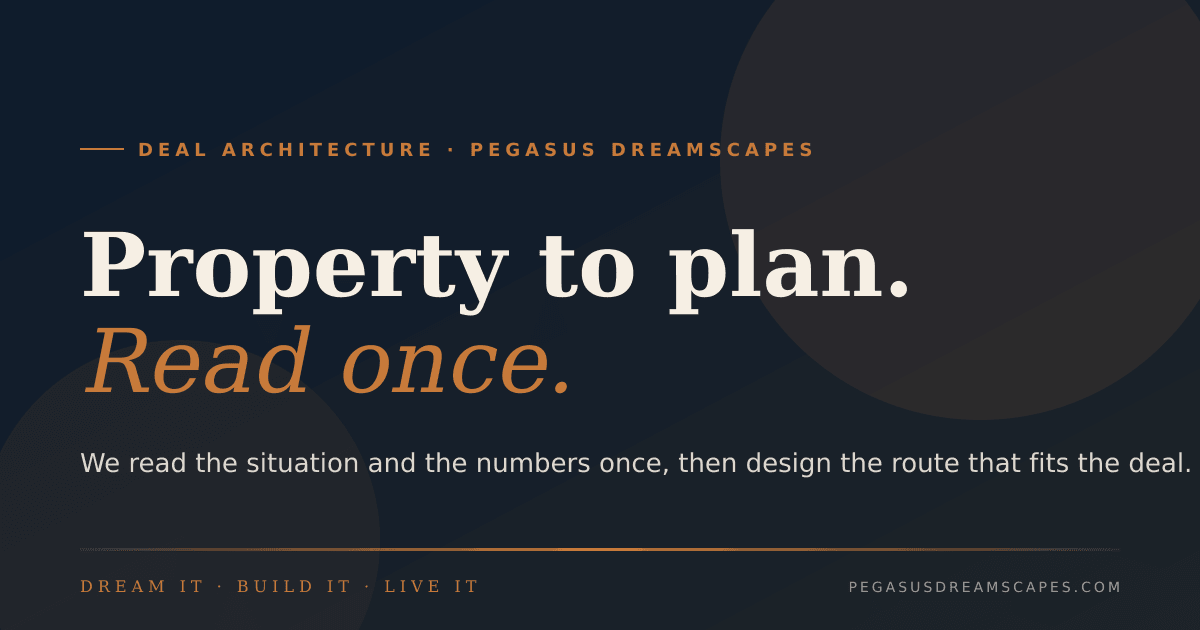
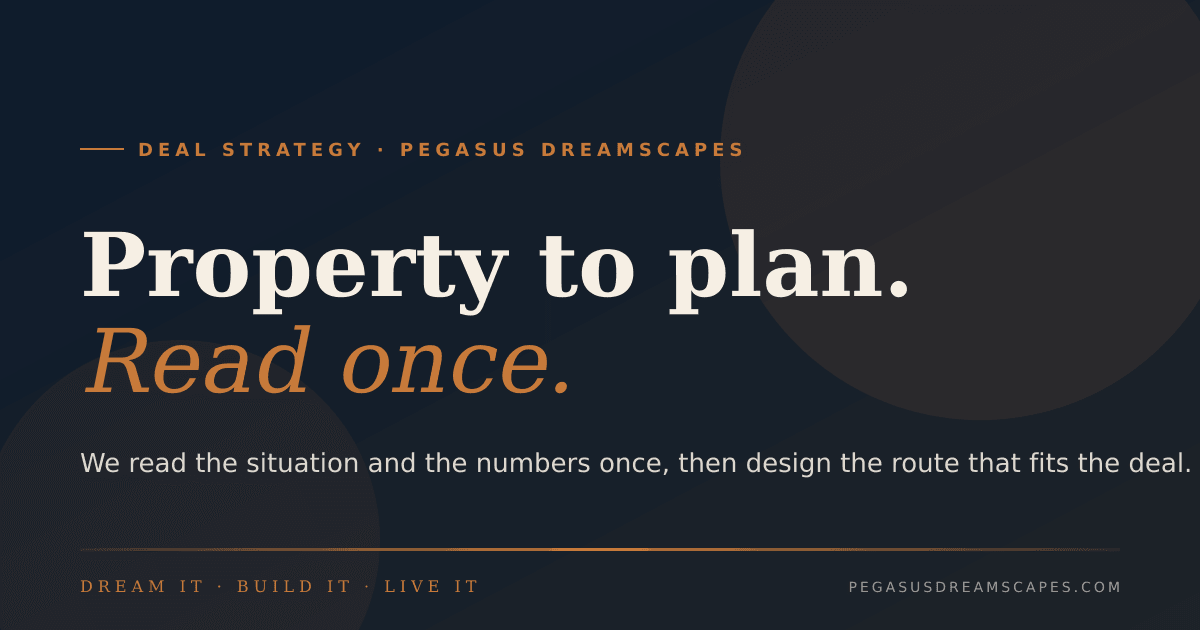
Task #232 — Brand language: Deal Strategy cleanup
Replace remaining public/crawlable "Deal Architecture" / "The Deal
Architect" wording with "Deal Strategy" / "Deal Strategy & Real Estate
Execution". Route slug /deal-architecture left unchanged (copy/metadata
only). Strategy Lab pillar and the departments model untouched.

Public copy + crawlable metadata edits:
- deal-architecture.tsx: useSEO title -> "Deal Strategy"; doctrine-line
  eyebrow -> "Deal Strategy & Real Estate Execution".
- home.tsx: WhatWeDo eyebrow -> "Deal Strategy"; JSON-LD slogan ->
  "Deal Strategy & Real Estate Execution".
- about.tsx: JSON-LD slogan + Positioning ShapeRow ->
  "Deal Strategy & Real Estate Execution".
- connect.tsx: BrandStrip subline -> "Deal Strategy & Real Estate
  Execution".
- project-nelson-dr.tsx: pipeline h2 -> "The Deal Strategy" (kept
  distinct from the existing "The Pegasus Read" h2 above it).
- scripts/generate-og.mjs: default/home/deal-architecture OG kickers
  retitled; regenerated PNGs in client/public/og + public/og.

Deviation from the original 5-location audit: grep found additional
public surfaces (home JSON-LD slogan, connect BrandStrip, the
deal-architecture eyebrow, and the OG card kickers) that the task's
"no other public copy/metadata" criterion required — all fixed.

Deliberately NOT changed (out of literal scope): founder metaphor quote
"the deal is the architecture of the situation" (home/about/
work-with-apollo); code comments and the two internal CTA test-case
[…]

Changed region(s): [[0.185, 0.2111, 0.6783, 0.2714]]

diff --git a/client/src/pages/about.tsx b/client/src/pages/about.tsx
@@ -38,7 +38,7 @@ const ABOUT_JSONLD = {
       alternateName: "Pegasus DreamScapes",
       url: "https://pegasusdreamscapes.com",
       logo: "https://pegasusdreamscapes.com/brand/pegasus-mark.svg",
-      slogan: "The Deal Architect",
+      slogan: "Deal Strategy & Real Estate Execution",
       email: "apollo@pegasusdreamscapes.com",
       telephone: "+1-925-744-8525",
       address: {
@@ -178,7 +178,7 @@ function AboutHero() {
                   The shape of the company
                 </p>
                 <dl className="divide-y divide-cream/15">
-                  <ShapeRow label="Positioning" value="The Deal Architect" />
+                  <ShapeRow label="Positioning" value="Deal Strategy & Real Estate Execution" />
                   <ShapeRow label="Founder" value={'Paolo "Apollo" Duran'} />
                   <ShapeRow label="Entity" value="Pegasus DreamScapes Corp." />
                   <ShapeRow label="HQ" value="East Bay, California" />

diff --git a/client/src/pages/deal-architecture.tsx b/client/src/pages/deal-architecture.tsx
@@ -164,7 +164,7 @@ function useUtcClock(): string {
 
 export default function DealArchitecture() {
   useSEO({
-    title: "Deal Architecture",
+    title: "Deal Strategy",
     description:
       "Every complex property has a path. Direct acquisition, creative finance, JV, listing, buyer rep, BRRRR, ADU upside, value-add, or a routed referral. Pegasus reviews the situation and matches it to the lane that fits.",
     image: "/og/default.png",
@@ -226,7 +226,7 @@ export default function DealArchitecture() {
           <ScrollReveal>
             <div className="inline-flex items-center gap-3 border border-[#C77A3A]/30 bg-[#C77A3A]/5 px-4 py-1.5 rounded-full text-[#C77A3A] font-['Montserrat'] text-[10px] uppercase tracking-[0.2em] font-bold">
               <Radio size={12} />
-              The Deal Architect
+              Deal Strategy &amp; Real Estate Execution
             </div>
           </ScrollReveal>
 

diff --git a/client/src/pages/home.tsx b/client/src/pages/home.tsx
@@ -45,7 +45,7 @@ const HOME_JSONLD = {
       logo: "https://pegasusdreamscapes.com/brand/pegasus-mark.svg",
       image: "https://pegasusdreamscapes.com/og/home.png",
       description: "Strategy-first real estate operating company serving the East Bay. Complex property, structured opportunity. Every property gets a path.",
-      slogan: "The Deal Architect",
+      slogan: "Deal Strategy & Real Estate Execution",
       email: "apollo@pegasusdreamscapes.com",
       telephone: "+1-925-744-8525",
       address: {
@@ -702,7 +702,7 @@ function StrategyLabTeaserSection() {
 function WhatWeDoSection() {
   const cards = [
     {
-      eyebrow: "Deal Architecture",
+      eyebrow: "Deal Strategy",
       title: "Ten lanes, one disciplined read.",
       desc: "Every property routes through the same review. The lane that fits the situation wins.",
       href: "/deal-architecture",

diff --git a/client/src/pages/connect.tsx b/client/src/pages/connect.tsx
@@ -80,7 +80,7 @@ function BrandStrip() {
         <div className="border-l border-border/50 pl-4">
           <p className="font-display text-sm tracking-[0.2em] text-foreground">Pegasus DreamScapes</p>
           <p className="text-[10px] uppercase tracking-[0.3em] text-primary font-supporting font-semibold mt-0.5">
-            The Deal Architect
+            Deal Strategy &amp; Real Estate Execution
           </p>
         </div>
         <div className="ml-auto hidden sm:flex items-center gap-2 text-[10px] uppercase tracking-[0.28em] text-muted-foreground/80 font-supporting font-semibold">

diff --git a/client/src/pages/project-nelson-dr.tsx b/client/src/pages/project-nelson-dr.tsx
@@ -592,11 +592,11 @@ export default function NelsonDrPage() {
           </section>
         </ScrollReveal>
 
-        {/* Deal Architecture diagram */}
+        {/* Deal Strategy diagram */}
         <ScrollReveal>
           <section>
             <h2 className="font-serif text-3xl font-semibold text-foreground mb-6">
-              The Deal Architecture
+              The Deal Strategy
             </h2>
             <div className="flex flex-col sm:flex-row sm:items-stretch gap-2">
               {PIPELINE.map((step, i) => (
